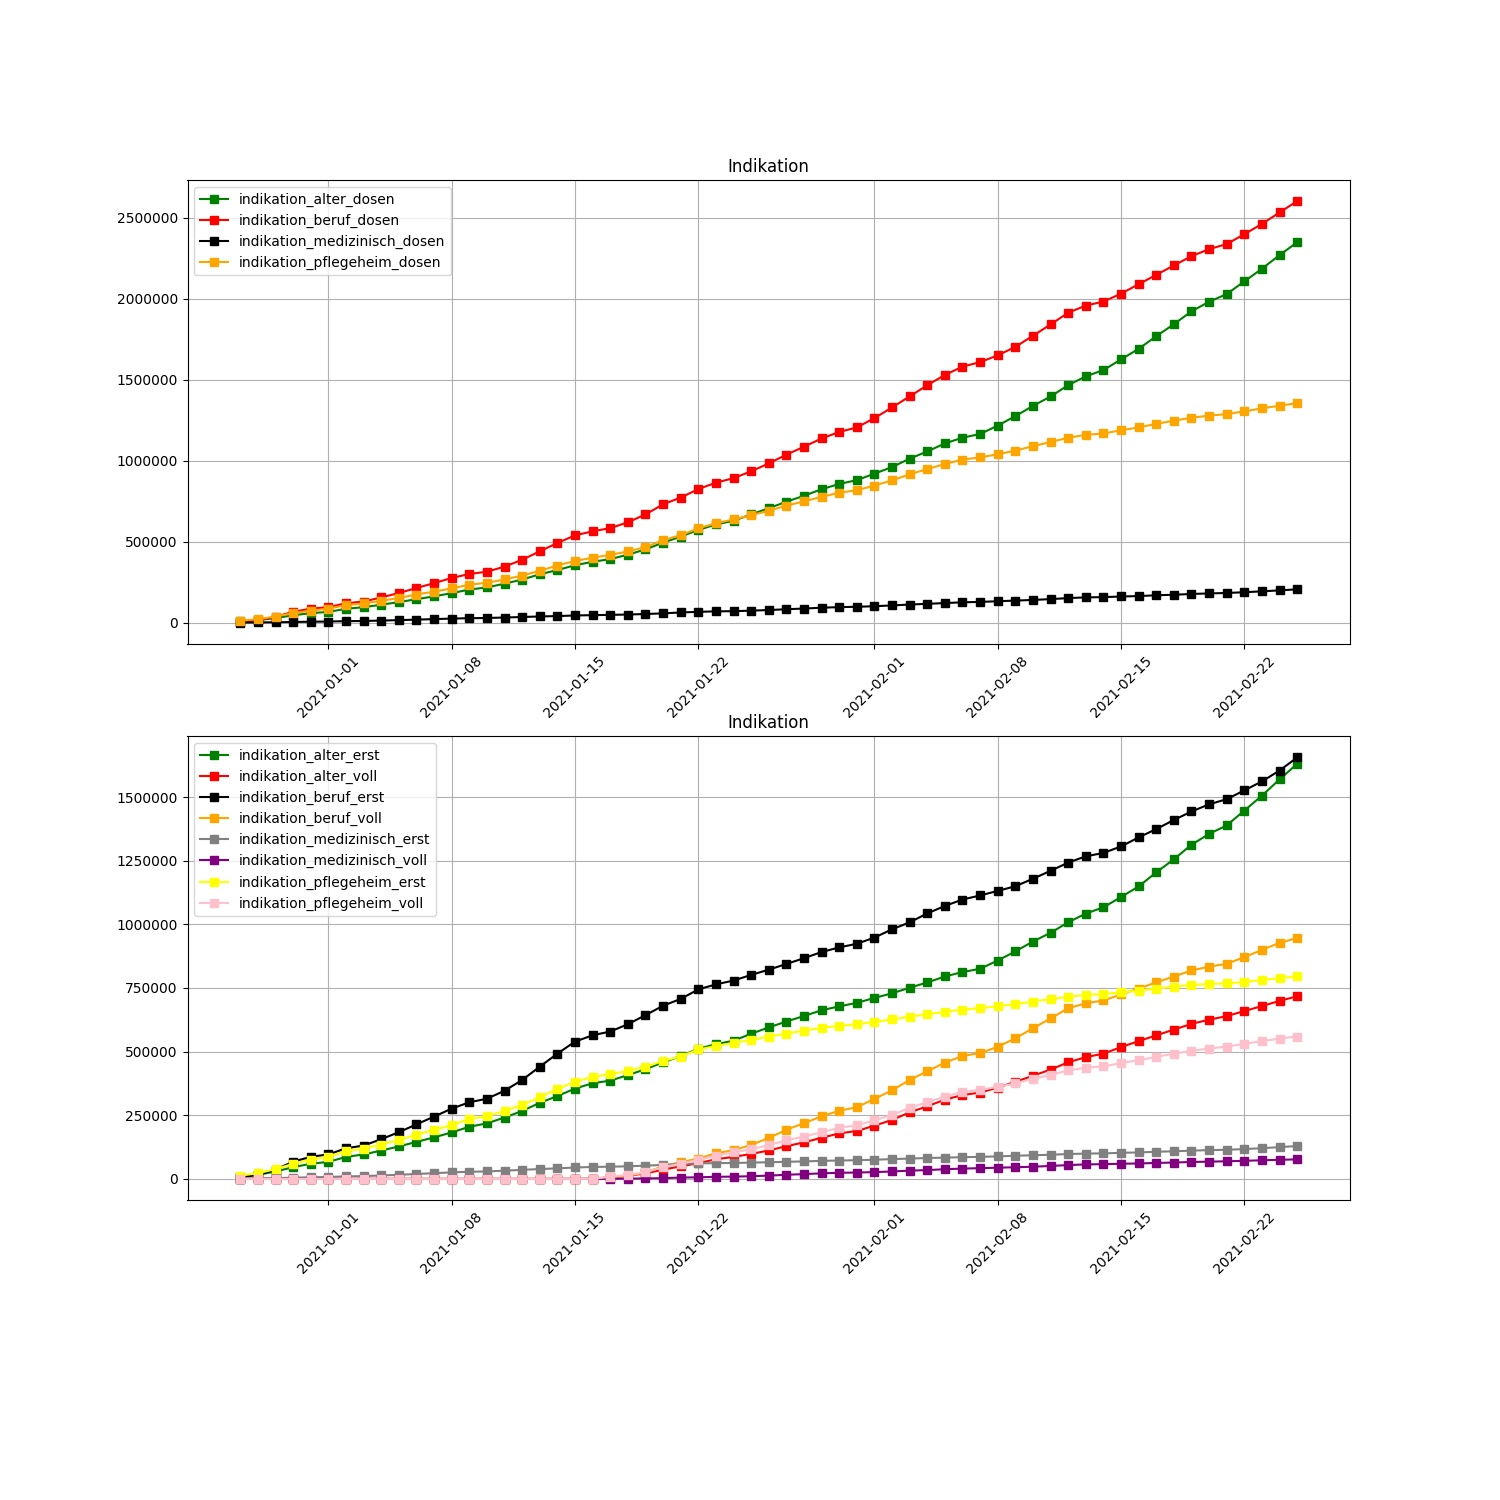
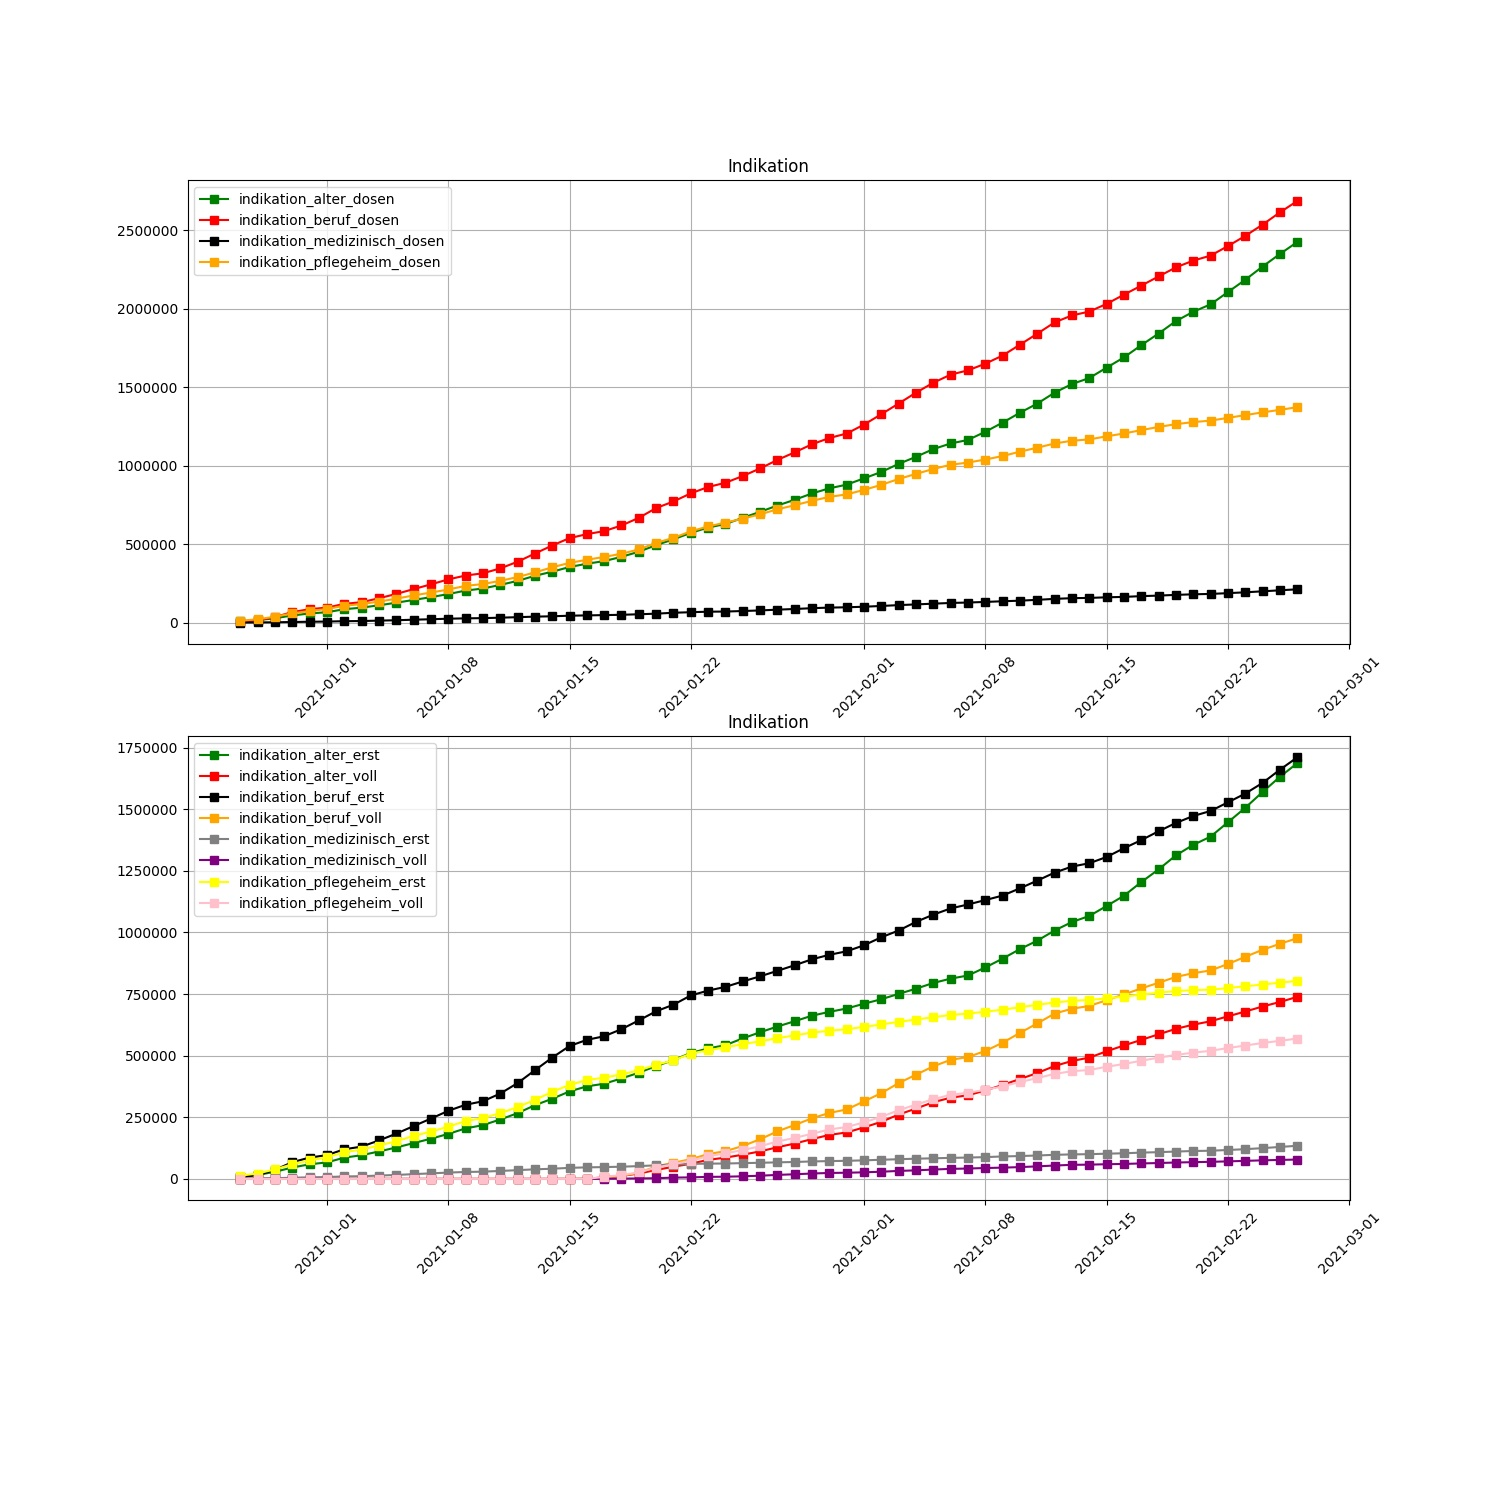
Crontab commit

diff --git a/Readme.md b/Readme.md
@@ -1,19 +1,19 @@
-# Corona vaccine Germany - Stand 2021-02-25
+# Corona vaccine Germany - Stand 2021-02-26
 ## Dashboard by [Simon Hamacher](https://www.shamacher.eu)
 ## Impfstoffe Übersicht
 **Impfstoffhersteller** | **verimpfte Dosen**
 -------- | :--------:
-Biontech | 5255195
-Moderna | 161186
-Astrazeneca | 314568
+Biontech | 5378703
+Moderna | 168189
+Astrazeneca | 363645
 
 
 ## Quoten
-**Total Verimpfte Dosen:** | 5730949
+**Total Verimpfte Dosen:** | 5910537
 -------- | :--------:
-**Erst-Impfquote** | 4.52 %
-**Voll-Impfquote** | 2.37 %
-**Imfungen Durchschnitt** | 93949.98 pro Tag
+**Erst-Impfquote** | 4.67 %
+**Voll-Impfquote** | 2.44 %
+**Imfungen Durchschnitt** | 95331.24 pro Tag
 ## Graphen
 <img src="Impfungen-Corona-01.jpg" alt="Corona-1" title="optionaler Titel" />
 <img src="Impfungen-Corona-02.jpg" alt="Corona-2" title="optionaler Titel" />
